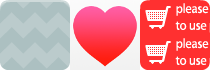
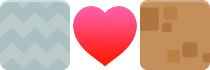
added health boost block

diff --git a/production/libs/v5states2helper_functions.js b/production/libs/v5states2helper_functions.js
@@ -17,10 +17,10 @@ function populateWall(w, position, speed, indestructibles) {
     let indestructible = false;
 		if(indes.indexOf(i) != -1) {
 			indestructible = true;
-			//w[i].tint = 0xAA0000; // old way of distinguishing blocks
 		}
 
-    let s = new Sprite(loader.resources[indestructible ? "images/hard_block.png" : "images/soft_block.png"].texture);
+    //let s = new Sprite(loader.resources[indestructible ? "images/hard_block.png" : "images/soft_block.png"].texture);
+    let s = new Sprite(indestructible ? hardTexture : softTexture);
     s.indestructible = indestructible;
     s.x = position;  // position of wall horizonally
     if (speed > 0) {
@@ -59,7 +59,7 @@ function moveBullets(n, delta) {
         if ( n == 1 ) {
           if (hitTestRectangle(b, ship2)) {
             b.visible = false;
-            setHealth(2, --healthShip2);
+            setHealth(2, healthShip2-1);
             if (healthShip2 == 0) {
               explodeShip(2);
             }else{
@@ -70,7 +70,7 @@ function moveBullets(n, delta) {
         } else {
           if (hitTestRectangle(b, ship1)) {
             b.visible = false;
-            setHealth(1, --healthShip1);
+            setHealth(1, healthShip1-1);
             if (healthShip1 == 0) {
               explodeShip(1);
             }else{
@@ -88,13 +88,8 @@ function moveBullets(n, delta) {
             if (hitTestRectangle(b, w)) {
               if (w.thanos) {
                 b.visible = false;
-                let health = n == 1 ? healthShip1 - 5 : healthShip2 - 5;
-                setHealth(n, health - 5);
-                if (healthShip1 <= 0) {
-                  explodeShip(1);
-                }else{
-                  strikeShip(1);
-                }
+                let health = n == 1 ? healthShip1 : healthShip2;
+                setHealth(n, health + 3);
               }else{
                 if (w.indestructible) {  // block is indestructible?
                   b.visible = false;
@@ -393,7 +388,19 @@ function audioIsPlaying(myAudio) {
 
 
 function setHealth(ship, h) {
+  if (h < 0) {
+    h = 0;
+  }else if (h > maxShipHealth) {
+    h= maxShipHealth;
+  }
   let hs = ship == 1 ? healthSprite1 : healthSprite2;
+  if (ship == 1) {
+    healthShip1 = h;
+  }else{
+    healthShip2 = h;
+  }
+  let health = ship == 1 ? healthSprite1 : healthSprite2;
+  
   hs.width = h*blockWidth;
 }
 
@@ -430,14 +437,16 @@ let i = starField.children.length;
 }
 
 function thanosBlock(s) {
-  s.filters = [
+  s.texture = healTexture;
+  /*s.texture = [
      new Filters.GlowFilter(25, 25, 1, 0xFF00FF, 0.5)
   ];
+  */
   s.thanos = true;
   s.visible = true;
   timeForThanos = 10 * FPS; 
 }
 
 function unThanosBlock(s) {
-
+  s.texture = softTexture;
 }

diff --git a/production/space_slayer.html b/production/space_slayer.html
@@ -71,6 +71,12 @@ let AI = true;
 // handy de-referencing for when we change game screeen/state
 let state = idle;
 
+// spitesheet containging blocks
+let sheet;
+let softTexture;
+let hardTexture;
+let healTexture;
+
 //Create a Pixi Application
 let app = new Application({width: 256, height: 256, forceCanvas:false});
 
@@ -114,6 +120,7 @@ loader
   .add("images/gameover.png")
   .add("images/Ship1HealthBar.png")
   .add("images/Ship2HealthBar.png")
+  .add( "blockSheet", "images/icon_sheet.json")
   .add("shipExpSnd", "sounds/ship_explosion.{ogg,mp3}")
   .add("laserSnd", "sounds/laser1.{ogg,mp3}")
   .add("thudSnd", "sounds/explosion1.{ogg,mp3}")
@@ -147,11 +154,14 @@ let sWidth  = window.innerWidth;
 let  blockHeight = sHeight/(nBlocks-1); // 1 block less because one block will be offscreen  
 let  blockWidth  = blockHeight;   // blocks will be square for now
 
+
 // health and healthbar sprites
 let healthShip1;
 let healthShip2;
 let healthSprite1;
 let healthSprite2;
+
+let maxShipHealth = 10; // maximum health is 10 
 
 // sound objects
 let shipExpSnd;
@@ -188,6 +198,12 @@ function initialSetup() {
     star.vz = -3;  // speed towards camera
     starField.addChild(star);
   }
+
+  // assign block textures from spritesheet
+  sheet = loader.resources.blockSheet; 
+  softTexture = sheet.textures["soft_block.png"];
+  hardTexture = sheet.textures["hard_block.png"];
+  healTexture = sheet.textures["health-icon70.png"];
 
   // assign sound shorthand objects
   shipExpSnd    = loader.resources.shipExpSnd.sound;
@@ -241,7 +257,7 @@ function setup() {
   clearScreen()
 
   // reset ship health
-  healthShip1 = 10;
+  healthShip1 = maxShipHealth;
   healthShip2 = healthShip1;
 
   //stop intro music
@@ -282,11 +298,11 @@ function setup() {
   
 
   // create walls
-  let speedWall1 = Math.random()*1.8+0.2;
+  let speedWall1 = Math.random()+1.5;
   let speedWall2 = speedWall1 + (Math.random() > 0.5 ?  0.2 : -0.2);
-  populateWall(walls[0], sWidth*0.5-blockWidth*1.5, speedWall1, 4);
+  populateWall(walls[0], sWidth*0.5-blockWidth*1.5, speedWall1, 3);
   populateWall(walls[1], sWidth*0.5-blockWidth*0.5, Math.random()*1.1+0.2, 0);
-  populateWall(walls[2], sWidth*0.5+blockWidth*0.5, speedWall2, 4);
+  populateWall(walls[2], sWidth*0.5+blockWidth*0.5, speedWall2, 3);
 
 
 
